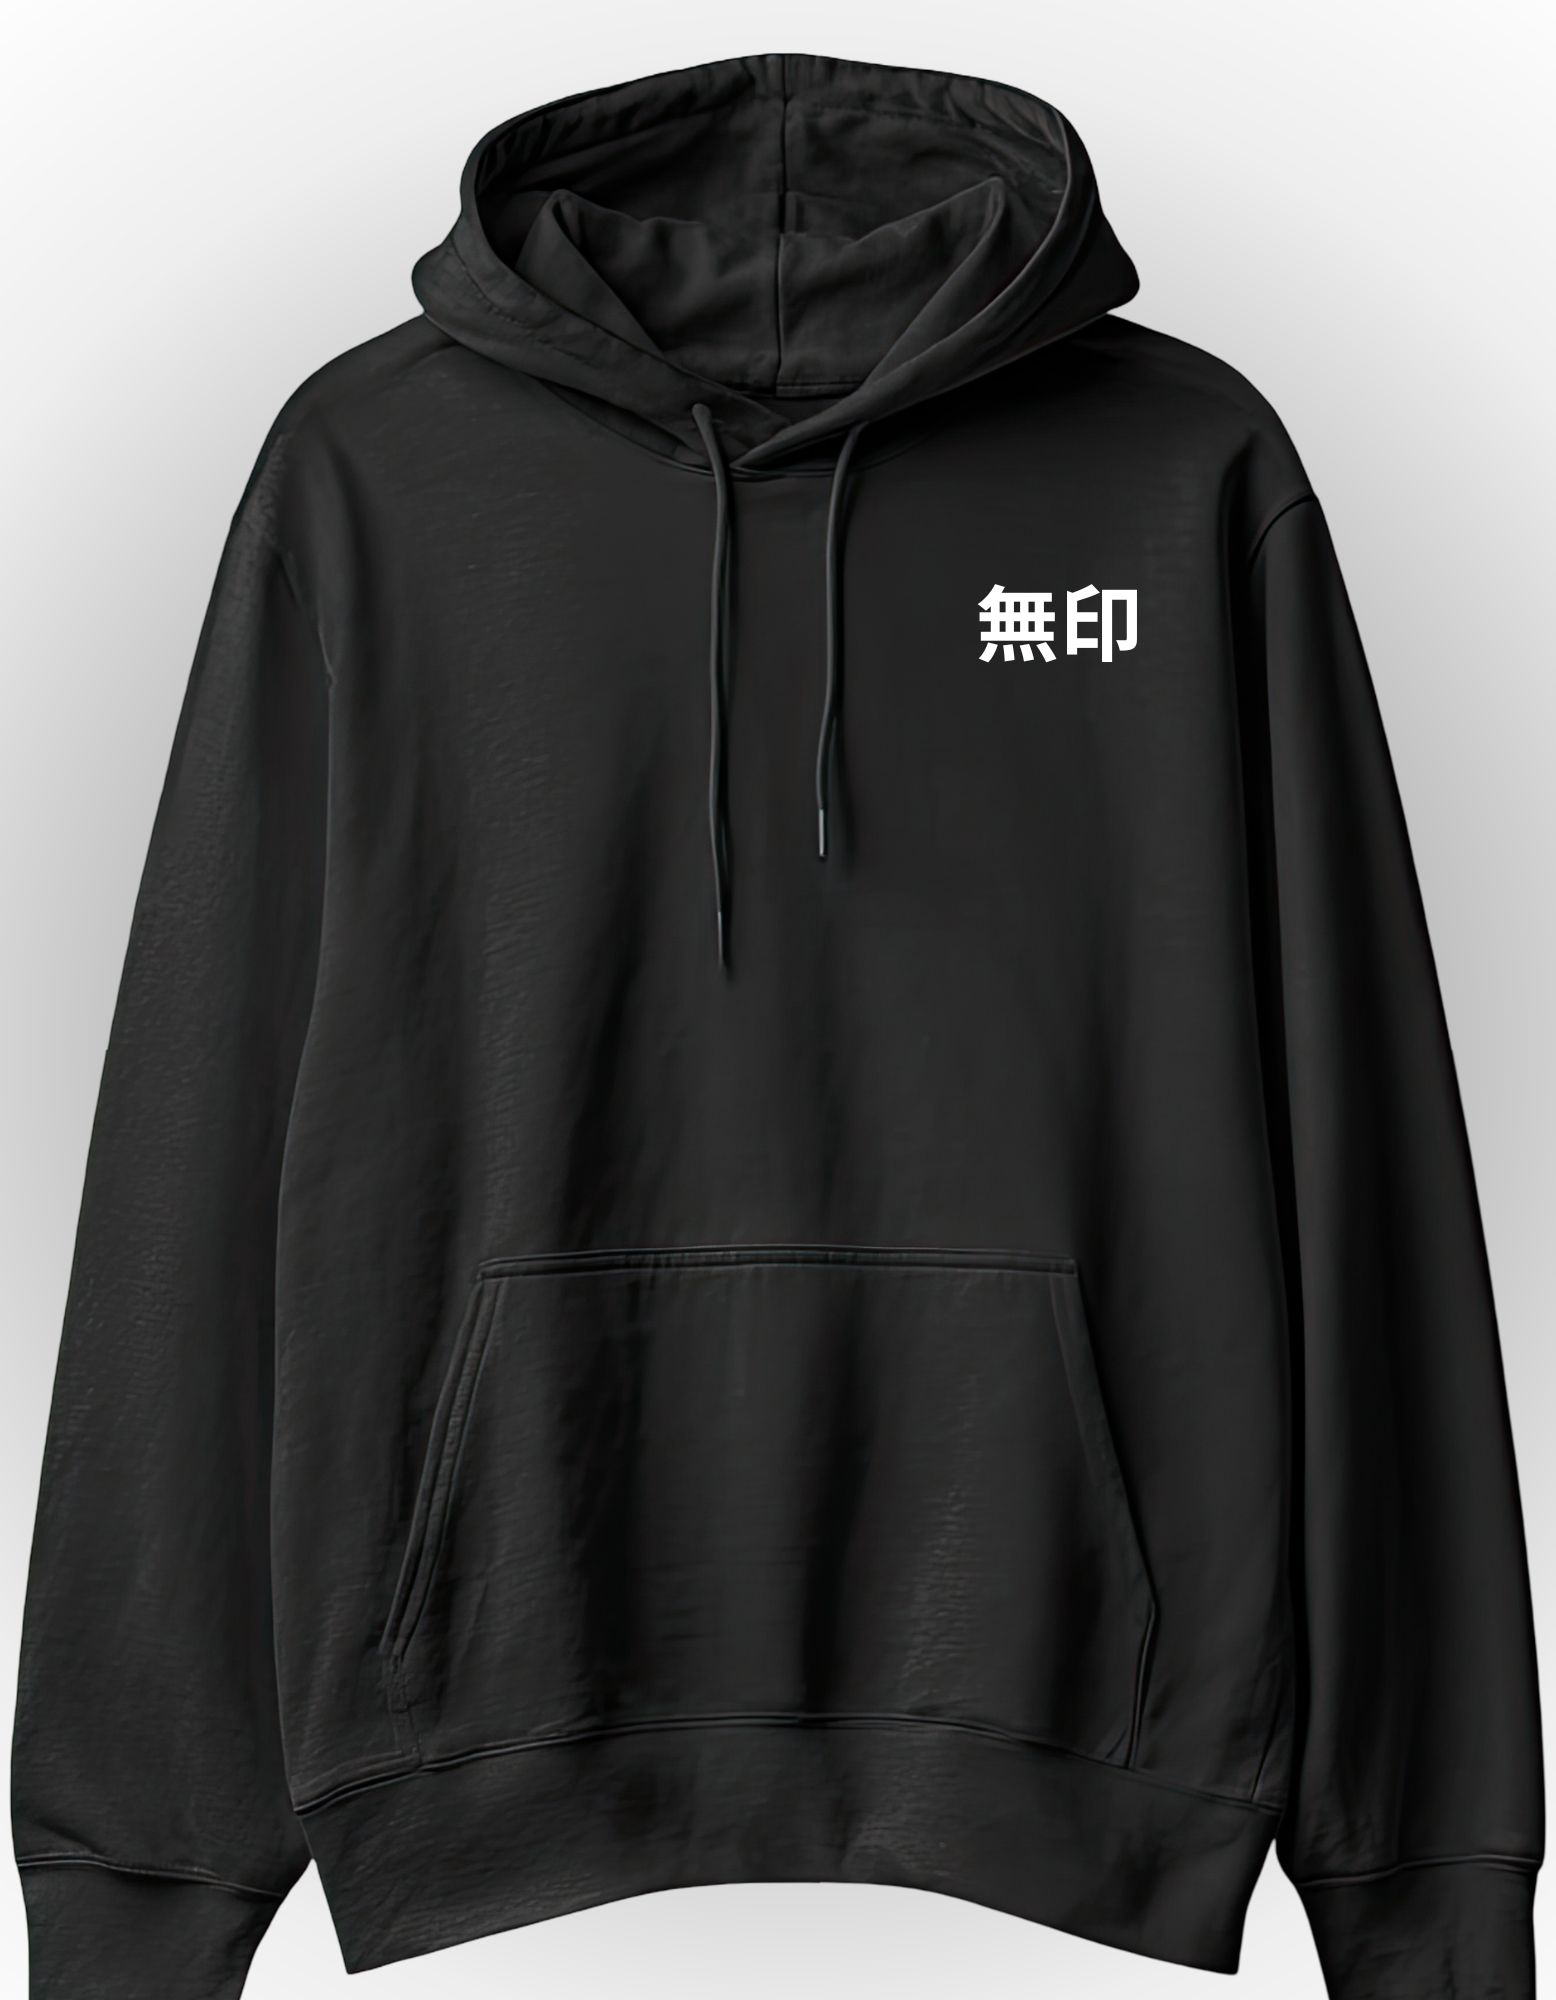
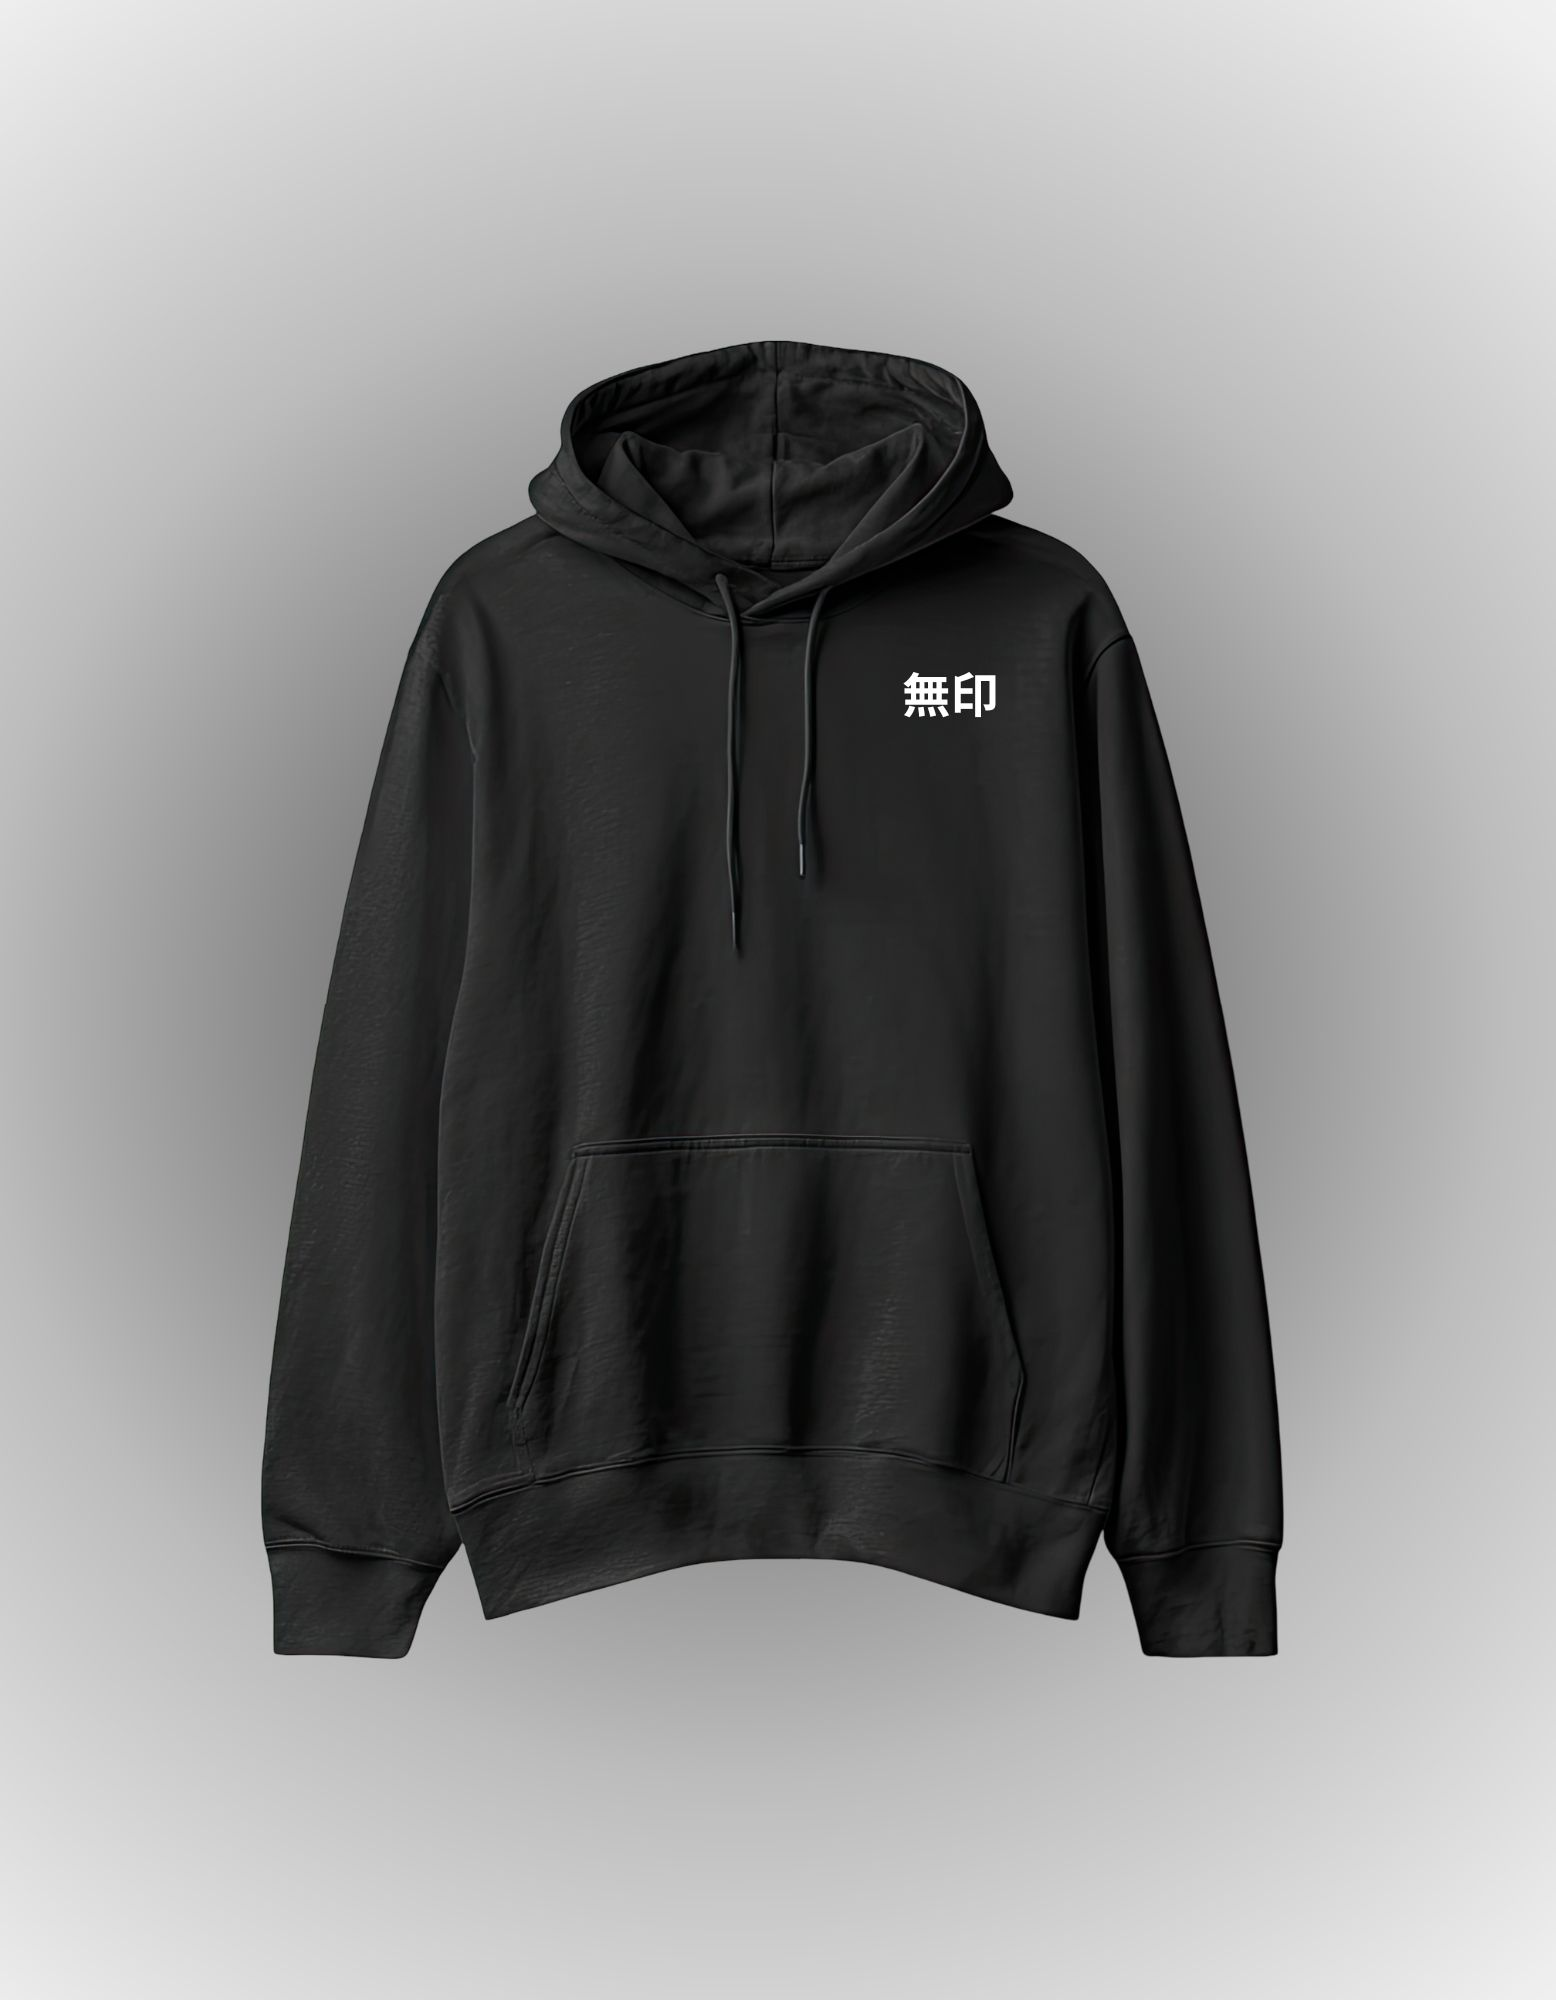
[MOD] imágenes categorías para que no se vean con tanto zoom y modificado el css de la pantalla de checkout que hacía que la foto del diseño (la imagen del producto en tu cesta) se viera enorme

diff --git a/frontend/src/styles/checkout-page.css b/frontend/src/styles/checkout-page.css
@@ -180,6 +180,91 @@
   }
 }
 
+/* --- SUMMARY ITEMS --- */
+.summary-title {
+  font-size: 1.2rem;
+  font-weight: 900;
+  text-transform: uppercase;
+  margin-bottom: 2rem;
+  color: #1a1a1a;
+}
+
+.summary-items {
+  display: flex;
+  flex-direction: column;
+  gap: 1.5rem;
+  margin-bottom: 2rem;
+}
+
+.summary-item {
+  display: flex;
+  align-items: center;
+  gap: 1rem;
+  padding: 1rem;
+  background: white;
+  border-radius: 12px;
+  border: 1px solid #eee;
+}
+
+.item-img-mini {
+  width: 80px;
+  height: 80px;
+  flex-shrink: 0;
+  border-radius: 8px;
+  overflow: hidden;
+  background: #f5f5f5;
+}
+
+.item-img-mini img {
+  width: 100%;
+  height: 100%;
+  object-fit: cover;
+}
+
+.item-info-mini {
+  flex: 1;
+}
+
+.item-info-mini h4 {
+  font-size: 0.9rem;
+  font-weight: 700;
+  margin: 0 0 0.5rem 0;
+  color: #1a1a1a;
+}
+
+.item-info-mini p {
+  font-size: 0.75rem;
+  color: #666;
+  margin: 0.3rem 0;
+}
+
+.item-price {
+  font-weight: 900;
+  color: #820000;
+  white-space: nowrap;
+}
+
+.empty-cart-msg {
+  text-align: center;
+  padding: 2rem;
+  color: #999;
+}
+
+.total-box {
+  background: white;
+  padding: 1.5rem;
+  border-radius: 12px;
+  border: 1px solid #eee;
+}
+
+.total-row {
+  display: flex;
+  justify-content: space-between;
+  align-items: center;
+  font-weight: 700;
+  color: #1a1a1a;
+}
+
 @media (max-width: 850px) {
   .checkout-grid {
     grid-template-columns: 1fr;
